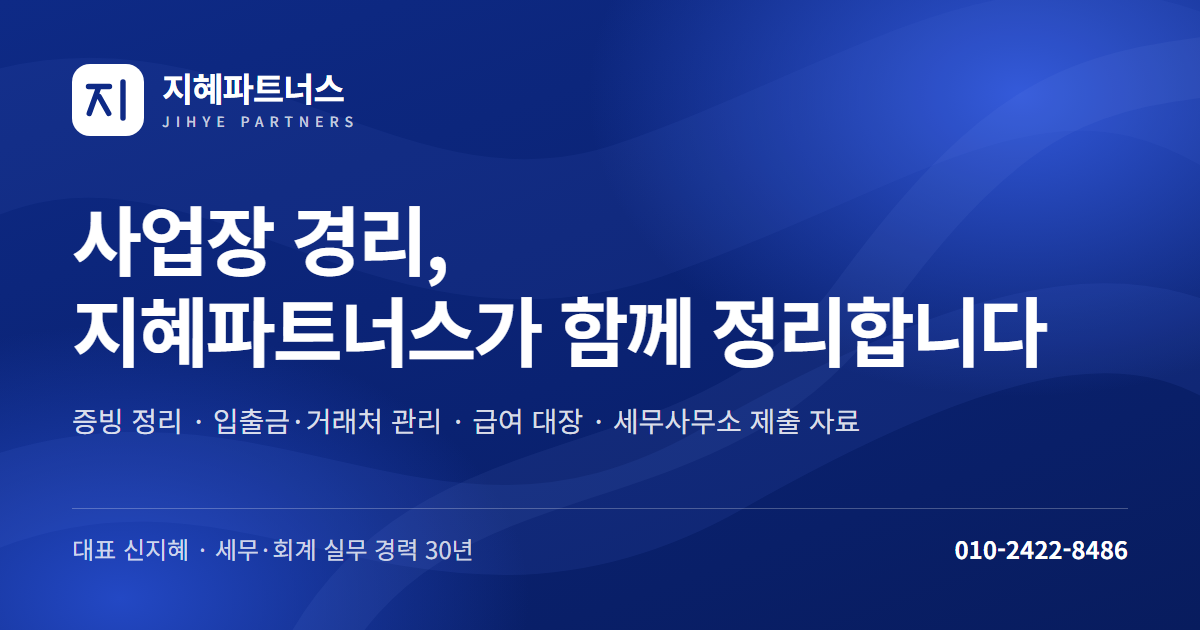
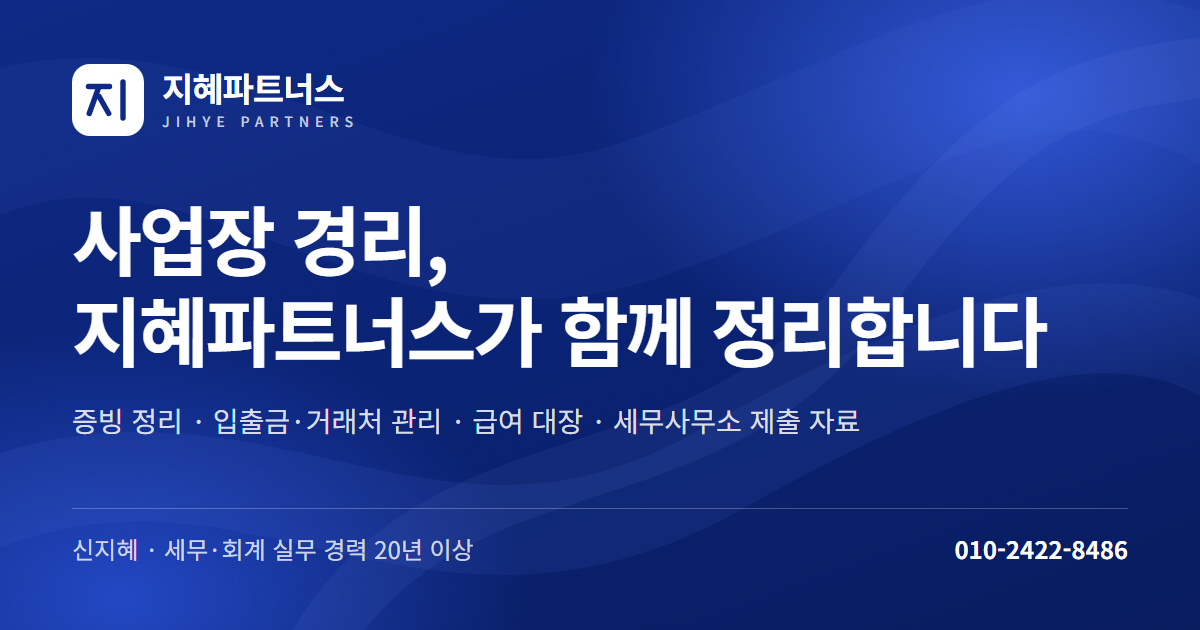
첫 화면  강조 표시 추가

Changed region(s): [[0.0617, 0.8444, 0.4008, 0.9048]]

diff --git a/index.html b/index.html
@@ -4,10 +4,10 @@
 <meta charset="utf-8">
 <meta name="viewport" content="width=device-width, initial-scale=1">
 <title>지혜파트너스 | 소상공인 경리 업무 지원</title>
-<meta name="description" content="증빙 정리, 입출금·거래처 관리, 급여 대장 정리, 세무사무소 제출 자료 준비까지. 세무·회계 실무 30년 신지혜 대표의 지혜파트너스가 사업장 경리 업무를 돕습니다. 010-2422-8486">
+<meta name="description" content="자체기장 도움, 파트타임 경리 근무, 증빙 정리, 입출금·거래처 관리, 급여 대장 정리, 세무사무소 제출 자료 준비까지. 세무·회계 실무 20년 이상 경력의 지혜파트너스가 사업장 경리 업무를 돕습니다. 010-2422-8486">
 <meta property="og:type" content="website">
 <meta property="og:title" content="지혜파트너스 | 소상공인 경리 업무 지원">
-<meta property="og:description" content="증빙 정리부터 세무사무소 제출 자료 준비까지, 사업장 경리 업무를 꼼꼼하게 돕습니다. 010-2422-8486">
+<meta property="og:description" content="자체기장 도움, 파트타임 경리 근무부터 세무사무소 제출 자료 준비까지, 사업장 경리 업무를 꼼꼼하게 돕습니다. 010-2422-8486">
 <meta property="og:url" content="https://jihyepartner.github.io/">
 <meta property="og:site_name" content="지혜파트너스">
 <meta property="og:locale" content="ko_KR">
@@ -62,10 +62,14 @@
   .hero-body{flex:1; display:flex; flex-direction:column; justify-content:center; padding:40px 40px 40px 22%}
   .hero h1{font-size:clamp(2.2rem,5vw,3.9rem); font-weight:600; line-height:1.22; letter-spacing:-.03em; max-width:760px}
   .hero .lead{margin-top:22px; max-width:520px; font-size:1.06rem; color:rgba(255,255,255,.82)}
-  .pill{margin-top:40px; align-self:flex-start; display:inline-flex; align-items:center; gap:14px; min-height:50px; padding:0 10px 0 24px; border-radius:999px; background:#fff; color:var(--ink); font-weight:600; text-decoration:none}
+  .chips{margin-top:20px; display:flex; flex-wrap:wrap; gap:10px}
+  .chip{display:inline-flex; align-items:center; gap:8px; min-height:40px; padding:0 16px; border-radius:999px; background:rgba(255,255,255,.14); border:1px solid rgba(255,255,255,.35); color:#fff; font-size:.98rem; font-weight:600; text-decoration:none}
+  .chip:hover{background:rgba(255,255,255,.24); color:#fff}
+  .chip svg{flex:none}
+  .pill{margin-top:32px; align-self:flex-start; display:inline-flex; align-items:center; gap:14px; min-height:50px; padding:0 10px 0 24px; border-radius:999px; background:#fff; color:var(--ink); font-weight:600; text-decoration:none}
   .pill span{width:34px; height:34px; border-radius:50%; background:var(--blue-tint); display:grid; place-items:center; color:var(--blue)}
   .pill:hover{color:var(--blue)}
-  .hero-foot{display:flex; justify-content:space-between; padding:0 40px 28px; font-size:.88rem; color:rgba(255,255,255,.66)}
+  .hero-foot{display:flex; justify-content:space-between; align-items:flex-end; padding:0 40px 28px; font-size:.88rem; line-height:1.7; color:rgba(255,255,255,.66)}
   @media (max-width:860px){
     .topnav{padding:22px 24px}
     .topnav ul{display:none}
@@ -91,14 +95,14 @@
   @media (max-width:640px){ .stats{grid-template-columns:1fr} }
 
   /* 장식 배너 (사진 대신) */
-  .banner{margin-top:48px; height:240px; border-radius:18px; overflow:hidden; position:relative;
+  .banner{margin-top:40px; height:120px; border-radius:16px; overflow:hidden; position:relative;
     background:linear-gradient(120deg, var(--blue-deep), var(--blue-2))}
-  .banner .ledger{position:absolute; right:-20px; top:-30px; transform:rotate(-14deg); font-weight:300; font-size:5.5rem; line-height:1; letter-spacing:.08em; color:rgba(255,255,255,.18); white-space:pre; font-variant-numeric:tabular-nums}
-  .banner p{position:absolute; left:32px; bottom:28px; right:32px; color:#fff; font-size:clamp(1.15rem,2.4vw,1.5rem); font-weight:600; letter-spacing:-.02em}
-  @media (max-width:640px){ .banner{height:200px} .banner .ledger{font-size:3.6rem} }
+  .banner .ledger{position:absolute; right:-10px; top:-18px; transform:rotate(-14deg); font-weight:300; font-size:3rem; line-height:1; letter-spacing:.08em; color:rgba(255,255,255,.18); white-space:pre; font-variant-numeric:tabular-nums}
+  .banner p{position:absolute; left:28px; top:50%; right:28px; transform:translateY(-50%); color:#fff; font-size:clamp(1rem,2vw,1.2rem); font-weight:600; letter-spacing:-.02em}
+  @media (max-width:640px){ .banner{height:100px} .banner .ledger{font-size:2.2rem} .banner p{left:20px} }
 
   /* 경력 타일 */
-  .tiles{margin-top:56px; display:grid; grid-template-columns:repeat(4,minmax(0,1fr)); gap:14px}
+  .tiles{margin-top:56px; display:grid; grid-template-columns:repeat(3,minmax(0,1fr)); gap:14px}
   .tile{min-height:300px; border-radius:18px; padding:28px 24px; display:flex; flex-direction:column; justify-content:space-between; gap:40px}
   .tile.dark{background:var(--blue); color:#fff}
   .tile.light{background:var(--blue-soft); color:var(--ink)}
@@ -107,7 +111,21 @@
   .tile p{margin-top:12px; font-size:.93rem; line-height:1.6}
   .tile.dark p{color:rgba(255,255,255,.8)}
   .tile.light p{color:var(--ink-2)}
-  .scope{margin-top:24px; padding:18px 22px; border-radius:14px; background:var(--blue-tint); color:var(--ink-2); font-size:.95rem}
+  .scope{margin-top:28px; padding:28px 30px; border:2px solid var(--blue); border-radius:18px; background:#fff}
+  .scope-head{display:flex; align-items:center; gap:12px}
+  .scope-head svg{flex:none; color:var(--blue)}
+  .scope-head h3{font-size:1.2rem; font-weight:700; letter-spacing:-.02em; color:var(--blue)}
+  .scope-lead{margin-top:12px; font-size:1.06rem; font-weight:600; color:var(--ink)}
+  .scope-cols{margin-top:20px; display:grid; grid-template-columns:repeat(2,minmax(0,1fr)); gap:14px}
+  .scope-col{padding:18px 20px; border-radius:14px}
+  .scope-col.yes{background:var(--blue-tint)}
+  .scope-col.no{background:#F4F5F7}
+  .scope-col h4{margin:0 0 10px; font-size:.98rem; font-weight:700}
+  .scope-col.yes h4{color:var(--blue)}
+  .scope-col.no h4{color:var(--ink-2)}
+  .scope-col ul{margin:0; padding:0 0 0 18px; font-size:.95rem; line-height:1.8; color:var(--ink-2)}
+  .scope-foot{margin-top:16px; font-size:.95rem; color:var(--ink-3)}
+  @media (max-width:640px){ .scope{padding:22px 20px} .scope-cols{grid-template-columns:1fr} }
   @media (max-width:1000px){ .tiles{grid-template-columns:repeat(2,minmax(0,1fr))} }
   @media (max-width:520px){ .tiles{grid-template-columns:1fr} .tile{min-height:0} }
 
@@ -146,6 +164,7 @@
   .qr-dialog button:hover{background:var(--blue-deep)}
 
   footer{max-width:1200px; margin:0 auto; padding:28px 24px 40px; display:flex; flex-wrap:wrap; justify-content:space-between; gap:8px 24px; font-size:.88rem; color:var(--muted)}
+  footer .notice{flex-basis:100%; margin-top:4px; font-size:.84rem; color:var(--muted)}
 
   /* 모바일 하단 고정 버튼 */
   .call-bar{display:none}
@@ -196,22 +215,26 @@
     </nav>
     <div class="hero-body">
       <h1>사업장 경리,<br>지혜파트너스가<br>함께 정리합니다</h1>
-      <p class="lead">증빙 정리부터 입출금 관리, 세무사무소에 보낼 자료 준비까지. 대표님이 놓치기 쉬운 경리 업무를 꼼꼼하게 도와드립니다.</p>
+      <p class="lead">자체기장 도움과 파트타임 경리 근무부터 증빙 정리, 세무사무소에 보낼 자료 준비까지. 대표님이 놓치기 쉬운 경리 업무를 꼼꼼하게 도와드립니다.</p>
+      <div class="chips">
+        <a class="chip" href="#services"><svg width="16" height="16" viewBox="0 0 24 24" fill="none" stroke="currentColor" stroke-width="2.4" stroke-linecap="round" stroke-linejoin="round" aria-hidden="true"><path d="M5 12.5l4.5 4.5L19 7.5"/></svg>자체기장 도움</a>
+        <a class="chip" href="#services"><svg width="16" height="16" viewBox="0 0 24 24" fill="none" stroke="currentColor" stroke-width="2.4" stroke-linecap="round" stroke-linejoin="round" aria-hidden="true"><path d="M5 12.5l4.5 4.5L19 7.5"/></svg>파트타임 경리 근무</a>
+      </div>
       <a class="pill" href="#contact">문의하기<span><svg width="16" height="16" aria-hidden="true"><use href="#i-arrow"/></svg></span></a>
     </div>
-    <div class="hero-foot"><span>대표 신지혜 · 세무·회계 실무 경력 30년</span><span>아래로 ↓</span></div>
+    <div class="hero-foot"><span>세무·회계 실무 경력 20년 이상<br>실무대표 : 신지혜</span><span>아래로 ↓</span></div>
   </header>
 
   <section class="block" id="about">
     <p class="label">소개</p>
     <div>
       <h2>경리의 기본을 아는 사람이<br><em>대표님 곁에서</em> 챙깁니다</h2>
-      <p class="intro">안녕하세요, 지혜파트너스 대표 신지혜입니다. 30년간 세무결산과 경리·회계 실무를 해 왔고, 지금도 세무사무소에서 실무를 이어 가고 있습니다.</p>
+      <p class="intro">안녕하세요, 지혜파트너스 신지혜입니다. 20년 넘게 세무결산과 경리·회계 실무를 해 왔고, 지금도 세무사무소에서 실무를 이어 가고 있습니다.</p>
       <p class="intro">그동안 바쁜 대표님들이 영수증 한 장, 통장 내역 한 줄 때문에 얼마나 애를 쓰시는지 가까이에서 봐 왔습니다. 지혜파트너스는 그 번거로운 경리 일을 대표님 대신 차곡차곡 정리해 드리려고 만들었습니다.</p>
 
       <div class="stats">
-        <div class="stat"><b>30년</b><span>세무 · 회계 실무 경력</span></div>
-        <div class="stat"><b>4가지</b><span>경리 업무 지원</span></div>
+        <div class="stat"><b>20년+</b><span>세무 · 회계 실무 경력</span></div>
+        <div class="stat"><b>6가지</b><span>경리 · 자체기장 지원</span></div>
         <div class="stat"><b>소상공인</b><span>작은 사업장 맞춤</span></div>
       </div>
 
@@ -230,23 +253,59 @@
       <h2>번거로운 경리 업무,<br><em>이렇게 도와드립니다</em></h2>
       <div class="tiles">
         <article class="tile dark">
-          <div class="ic"><svg width="18" height="18" viewBox="0 0 24 24" fill="none" stroke="currentColor" stroke-width="1.8" stroke-linecap="round" stroke-linejoin="round" aria-hidden="true"><path d="M6 2h12v20l-3-2-3 2-3-2-3 2z"/><path d="M9 7h6M9 11h6M9 15h4"/></svg></div>
-          <div><h3>증빙 수집 · 정리</h3><p>영수증, 세금계산서, 카드 내역 같은 증빙을 빠짐없이 모아 정리합니다.</p></div>
+          <div class="ic"><svg width="18" height="18" viewBox="0 0 24 24" fill="none" stroke="currentColor" stroke-width="1.8" stroke-linecap="round" stroke-linejoin="round" aria-hidden="true"><path d="M4 5a2 2 0 0 1 2-2h13v16H6a2 2 0 0 0-2 2z"/><path d="M4 21V5M9 8h6M9 12h4"/></svg></div>
+          <div><h3>자체기장 도움</h3><p>사장님이 직접 장부를 쓰실 수 있도록 간편장부 작성법, 홈택스와 경리 프로그램 사용법을 차근차근 알려 드립니다.</p></div>
         </article>
         <article class="tile light">
           <div class="ic"><svg width="18" height="18" viewBox="0 0 24 24" fill="none" stroke="currentColor" stroke-width="1.8" stroke-linecap="round" stroke-linejoin="round" aria-hidden="true"><path d="M7 7h13l-3-3M17 17H4l3 3"/></svg></div>
           <div><h3>입출금 · 거래처 관리</h3><p>통장 입출금 내역과 매출·매입 거래처를 한눈에 보이게 정리합니다.</p></div>
         </article>
         <article class="tile dark">
+          <div class="ic"><svg width="18" height="18" viewBox="0 0 24 24" fill="none" stroke="currentColor" stroke-width="1.8" stroke-linecap="round" stroke-linejoin="round" aria-hidden="true"><circle cx="12" cy="12" r="9"/><path d="M12 7v5l3 2"/></svg></div>
+          <div><h3>파트타임 경리 근무</h3><p>필요하시면 사장님 회사에 직원으로 고용되어, 파트타임 경리로 근무합니다.</p></div>
+        </article>
+        <article class="tile light">
           <div class="ic"><svg width="18" height="18" viewBox="0 0 24 24" fill="none" stroke="currentColor" stroke-width="1.8" stroke-linecap="round" stroke-linejoin="round" aria-hidden="true"><circle cx="9" cy="8" r="3"/><path d="M3 20c0-3.3 2.7-6 6-6s6 2.7 6 6"/><path d="M16 4h5M16 8h5M18 12h3"/></svg></div>
           <div><h3>급여 대장 정리</h3><p>직원 급여 대장 등 사업장 내부 서류를 깔끔하게 정리합니다.</p></div>
         </article>
-        <article class="tile light">
+        <article class="tile dark">
           <div class="ic"><svg width="18" height="18" viewBox="0 0 24 24" fill="none" stroke="currentColor" stroke-width="1.8" stroke-linecap="round" stroke-linejoin="round" aria-hidden="true"><path d="M4 4h16v16H4z"/><path d="M8 12l3 3 5-6"/></svg></div>
           <div><h3>세무사무소 제출 자료 준비</h3><p>대표님이 거래하시는 세무사무소에 보낼 자료를 빠짐없이 챙겨 드립니다.</p></div>
         </article>
+        <article class="tile light">
+          <div class="ic"><svg width="18" height="18" viewBox="0 0 24 24" fill="none" stroke="currentColor" stroke-width="1.8" stroke-linecap="round" stroke-linejoin="round" aria-hidden="true"><path d="M6 2h12v20l-3-2-3 2-3-2-3 2z"/><path d="M9 7h6M9 11h6M9 15h4"/></svg></div>
+          <div><h3>증빙 수집 · 정리</h3><p>영수증, 세금계산서, 카드 내역 같은 증빙을 빠짐없이 모아 정리합니다.</p></div>
+        </article>
       </div>
-      <p class="scope">세금 신고, 장부 기장, 세무 상담은 세무사의 업무입니다. 지혜파트너스는 세무사 업무를 대신하지 않으며, 대표님이 거래하시는 세무사무소에 보낼 자료 준비를 돕습니다.</p>
+      <aside class="scope" aria-labelledby="scope-title">
+        <div class="scope-head">
+          <svg width="26" height="26" viewBox="0 0 24 24" fill="none" stroke="currentColor" stroke-width="2" stroke-linecap="round" stroke-linejoin="round" aria-hidden="true"><circle cx="12" cy="12" r="10"/><path d="M12 8v5M12 16.5v.5"/></svg>
+          <h3 id="scope-title">업무 범위 안내</h3>
+        </div>
+        <p class="scope-lead">세금 신고, 기장 대행, 세무 상담은 세무사의 업무입니다.<br>지혜파트너스는 세무사 업무를 하지 않습니다.</p>
+        <div class="scope-cols">
+          <div class="scope-col yes">
+            <h4>지혜파트너스가 하는 일</h4>
+            <ul>
+              <li>증빙 수집 · 정리, 입출금 · 거래처 관리</li>
+              <li>급여 대장 등 내부 서류 정리</li>
+              <li>세무사무소에 보낼 자료 준비</li>
+              <li>사장님 자체기장 방법 안내 · 교육</li>
+              <li>사장님 회사 직원으로 파트타임 경리 근무</li>
+            </ul>
+          </div>
+          <div class="scope-col no">
+            <h4>하지 않는 일 (세무사 업무)</h4>
+            <ul>
+              <li>세금 신고 · 신청 대행</li>
+              <li>기장 대행</li>
+              <li>세무조정</li>
+              <li>세무 상담 · 자문</li>
+            </ul>
+          </div>
+        </div>
+        <p class="scope-foot">세금 신고와 세무 상담은 사장님이 거래하시는 세무사님과 진행해 주세요. 지혜파트너스는 그 과정에 필요한 경리 자료를 정리해 드립니다.</p>
+      </aside>
     </div>
   </section>
 
@@ -272,7 +331,7 @@
         <a class="btn btn-kakao" data-kakao href="http://qr.kakao.com/talk/5d4GLdNu.JwwKhup83F6Ai9VAdY-" target="_blank" rel="noopener"><svg width="20" height="20" aria-hidden="true"><use href="#i-kakao"/></svg>카카오톡 친구 추가</a>
         <a class="btn btn-line" href="sms:01024228486?body=%EC%95%88%EB%85%95%ED%95%98%EC%84%B8%EC%9A%94.%20%ED%99%88%ED%8E%98%EC%9D%B4%EC%A7%80%20%EB%B3%B4%EA%B3%A0%20%EC%97%B0%EB%9D%BD%EB%93%9C%EB%A6%BD%EB%8B%88%EB%8B%A4.%20%EC%84%B1%ED%95%A8%3A%20"><svg width="20" height="20" aria-hidden="true"><use href="#i-msg"/></svg>문자 보내기</a>
       </div>
-      <p class="hint">휴대폰에서 누르시면 바로 연결됩니다.</p>
+      <p class="hint">휴대폰에서 누르시면 바로 연결됩니다.<br>세금 신고 · 세무 상담 문의는 받지 않습니다. 거래하시는 세무사님께 문의해 주세요.</p>
     </div>
     <figure class="qr-card" style="margin:0">
       <img src="kakao-qr-code.png" width="180" height="180" alt="카카오톡 친구 추가 QR코드">
@@ -286,8 +345,9 @@
 
 <footer>
   <span class="foot-logo"><svg width="28" height="28" viewBox="0 0 96 96" aria-hidden="true"><rect width="96" height="96" rx="24" fill="#0E2A86"/><use href="#mark-strokes" width="96" height="96" style="color:#FFFFFF"/></svg>지혜파트너스</span>
-  <span>상호 지혜 파트너스 · 대표 신지혜 · 사업자등록번호 795-24-02214</span>
+  <span>상호 지혜 파트너스 · 대표자 신지혜 · 사업자등록번호 795-24-02214</span>
   <span>010-2422-8486</span>
+  <p class="notice">지혜파트너스는 경리 업무 지원 사업자이며, 세무대리(세금 신고 · 기장 대행 · 세무조정 · 세무 상담)를 하지 않습니다.</p>
 </footer>
 
 <div class="call-bar">
